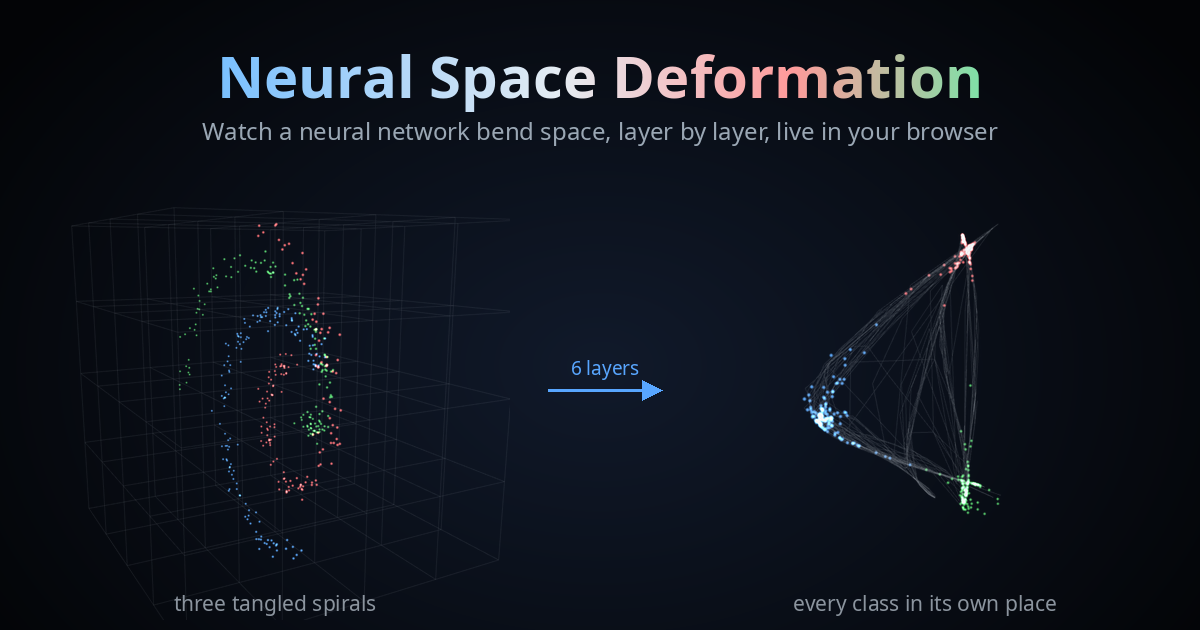
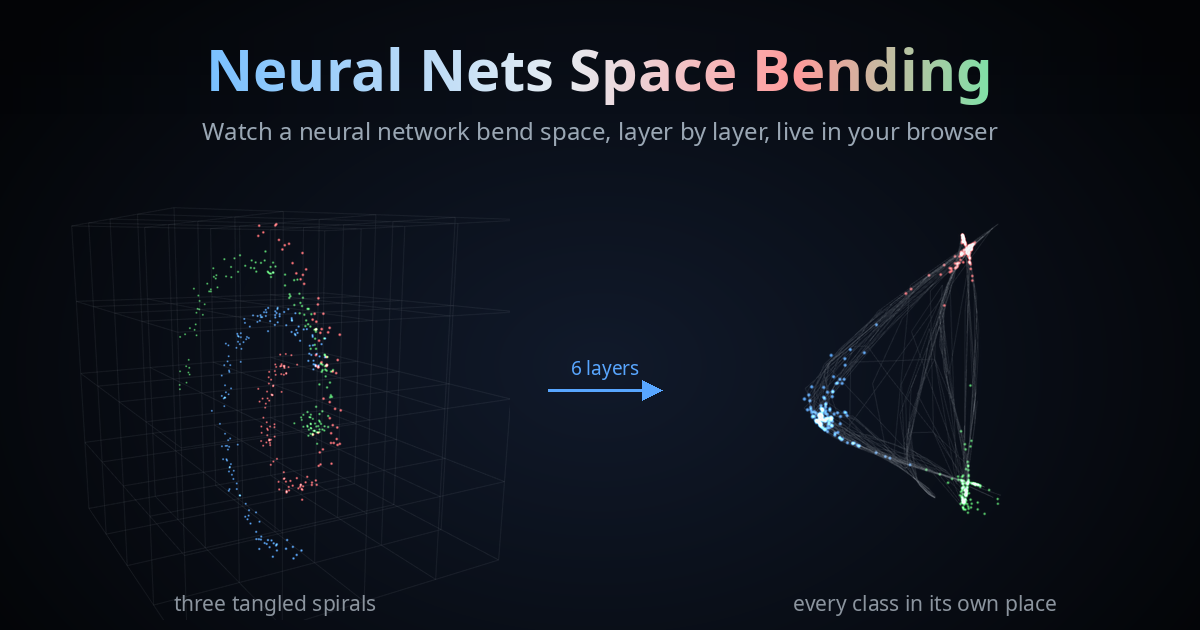
Neural Nets Space Bending: bigger strip and ▶, layer play after training, history bar next to Train

Changed region(s): [[0.1542, 0.0603, 0.8325, 0.181]]

diff --git a/index.html b/index.html
@@ -3,13 +3,13 @@
 <head>
 <meta charset="utf-8">
 <meta name="viewport" content="width=device-width, initial-scale=1">
-<title>Neural Space Deformation</title>
+<title>Neural Nets Space Bending</title>
 <meta name="author" content="Eren Can Almaz">
-<meta name="description" content="Interactive visualization of how a small MLP deforms space, layer by layer, and how backpropagation reshapes it. Plain JavaScript, no ML libraries.">
+<meta name="description" content="Interactive visualization of how a small MLP bends space, layer by layer, and how backpropagation reshapes it. Layers wider than the view are shown through PCA. Plain JavaScript, no ML libraries.">
 <!-- link previews (LinkedIn, Slack, X, …) -->
 <meta property="og:type" content="website">
 <meta property="og:url" content="https://writerforight.github.io/mlp-space-deformation/">
-<meta property="og:title" content="Neural Space Deformation">
+<meta property="og:title" content="Neural Nets Space Bending">
 <meta property="og:description" content="Watch a neural network bend space, layer by layer, live in your browser. Train it, drag its targets, look inside every layer. No install.">
 <meta property="og:image" content="https://writerforight.github.io/mlp-space-deformation/docs/og-cover.png">
 <meta property="og:image:width" content="1200">
@@ -182,24 +182,52 @@
   button.danger:disabled { color: var(--muted); border-color: var(--line); background: none; }
   #lossSpark { cursor: ew-resize; }
   #liveBtn { color: #ff6b6b; border-color: #ff6b6b; }
-  #timeline { position: absolute; left: 50%; bottom: 14px; transform: translateX(-50%); z-index: 5; width: min(640px, calc(100% - 280px));
-    display: flex; align-items: center; gap: 10px; padding: 6px 12px; border-radius: 12px;
-    background: rgba(22, 27, 34, 0.92); border: 1px solid var(--line); box-shadow: 0 8px 24px rgba(0, 0, 0, 0.35); }
+  /* training history: its own row under the network and Train; on wide screens right of Train */
+  #modelStrip { flex-wrap: wrap; row-gap: 4px; }
+  .ms-row { display: flex; align-items: center; gap: inherit; justify-content: inherit; flex: 1 1 auto; min-width: 0; }   /* network + Train never split */
+  #timeline { display: flex; align-items: center; justify-content: center; gap: 8px; flex: 1 0 100%; min-width: 0; }
+  #timeline #lossSpark { flex: 0 1 420px; }
+  @media (min-width: 1700px) {
+    #timeline { flex: 0 1 340px; padding-left: 18px; border-left: 1px solid var(--line); }
+    #timeline #lossSpark { flex: 1; }
+  }
+  /* the big ▶ on the view after training: plays the layers, not the training */
+  #bendBtn { position: absolute; left: 50%; bottom: 16px; transform: translateX(-50%); z-index: 5; padding: 10px 22px; border-radius: 24px;
+    font-size: 15px; font-weight: 650; white-space: nowrap; box-shadow: 0 0 0 3px rgba(31, 111, 235, 0.25), 0 8px 28px rgba(31, 111, 235, 0.45); }
   #timeline .tl-label { font-size: 11px; color: var(--muted); text-transform: uppercase; letter-spacing: 0.06em; }
   #timeline #replayBtn { border-radius: 50%; width: 30px; height: 30px; padding: 0; background: var(--accent2); border-color: var(--accent); }
-  #lossSpark { flex: 1; min-width: 80px; height: 30px; display: block; }
-  #lossVal { min-width: 92px; text-align: right; font-variant-numeric: tabular-nums; }
+  #lossSpark { flex: 1; min-width: 70px; height: 28px; display: block; }
+  #lossVal { min-width: 70px; text-align: right; font-variant-numeric: tabular-nums; }
   #lossVal { font-size: 10px; font-variant-numeric: tabular-nums; }
   .ms-train { display: flex; align-items: center; gap: 8px; padding-left: 14px; border-left: 1px solid var(--line); }
   #drawerBtn.on { background: var(--panel2); border-color: var(--accent); }
   @media (min-width: 821px) {   /* desktop: Train and Model sit in the centre, right after the network, and stand out */
-    #modelStrip { justify-content: center; gap: 22px; }
+    #modelStrip { justify-content: center; gap: 18px; }
     .ms-layers { flex: 0 1 auto; }
     .ms-train { gap: 10px; padding-left: 22px; }
     #trainPlay { min-width: 124px; padding: 8px 20px; font-size: 15px; font-weight: 650;
       box-shadow: 0 0 0 3px rgba(31, 111, 235, 0.22), 0 4px 16px rgba(31, 111, 235, 0.35); }
     #drawerBtn { padding: 8px 14px; font-size: 14px; font-weight: 600; border-color: var(--accent); }
+    /* the network you play through: bigger stages, a big round ▶ */
+    .pipe { gap: 4px; padding: 8px 2px 12px; }
+    .pipe .pn { padding: 7px 10px; font-size: 13.5px; }
+    .pipe .pb .pn { padding: 7px 6px; }
+    .pipe .pb { border-radius: 10px; padding: 3px; }
+    .pipe .pb .pn.s { font-size: 12px; }
+    .pipe .pi { font-size: 13px; padding: 4px 4px; }
+    .pipe .pa { font-size: 13px; }
+    .pipe .marker { width: 10px; height: 10px; left: -5px; }
+    .pipe .pm { margin-left: 4px; }
+    #modelStrip #play { width: 48px; height: 48px; font-size: 20px; }
+    #stepBack, #stepFwd, #netToggle { padding: 6px 9px; }
   }
+  /* ▶ (play the bending through the layers): round, glowing, softly pulsing until it is pressed */
+  #play { width: 40px; height: 40px; padding: 0 0 0 2px; flex: none; border-radius: 50%; font-size: 17px; line-height: 1;
+    box-shadow: 0 0 0 3px rgba(31, 111, 235, 0.25), 0 4px 16px rgba(31, 111, 235, 0.4); animation: playPulse 2.4s ease-in-out infinite; }
+  #play.on { padding-left: 0; animation: none; }
+  #play:hover { box-shadow: 0 0 0 4px rgba(31, 111, 235, 0.4), 0 4px 20px rgba(31, 111, 235, 0.55); }
+  @keyframes playPulse { 50% { box-shadow: 0 0 0 7px rgba(31, 111, 235, 0.08), 0 4px 22px rgba(31, 111, 235, 0.55); } }
+  @media (prefers-reduced-motion: reduce) { #play { animation: none; } }
   #drawer { display: grid; grid-template-columns: repeat(3, minmax(0, 1fr)); max-height: 46vh; border-top: 1px solid var(--line);
     background: var(--panel); animation: wzRise 0.3s var(--wz-ease, ease) backwards; }
   #drawer .col { overflow-y: auto; padding: 10px 14px 14px; border-left: 1px solid var(--line); scrollbar-color: #30363d transparent; scrollbar-width: thin; }
@@ -371,6 +399,7 @@
     .pipe .pa { display: none; }
     .ms-train { gap: 5px; padding-left: 6px; }
     #trainPlay { padding: 6px 9px; }
+    #play { width: 36px; height: 36px; font-size: 15px; }
     #drawerBtn { padding: 6px 10px; }
     .lbl-model { display: none; }
   }
@@ -382,8 +411,8 @@
     .wz-brand { display: none; }
     #modelStrip { gap: 8px; padding: 6px 8px; }
     .ms-train { padding-left: 8px; }
-    #timeline { width: calc(100% - 24px); bottom: 70px; }
-    #gizmo { bottom: 124px; }
+    #bendBtn { font-size: 14px; padding: 9px 16px; bottom: 12px; }
+    #gizmo { bottom: 64px; }
     #tlStack { max-width: calc(100% - 110px); }      /* leaves room for View ▾ */
     #infoBox { font-size: 11px; padding: 4px 8px; }
     #infoBox .fold-body { max-height: 42vh; }
@@ -572,7 +601,7 @@
 </head>
 <body>
 <header>
-  <h1><span class="lbl-long">Neural </span>Space Deformation</h1>
+  <h1><span class="lbl-long">Neural Nets </span>Space Bending</h1>
   <a class="byline hdr-wide" href="https://github.com/writerforight" target="_blank" rel="noopener">by Eren Can Almaz</a>
   <span class="seg" data-tip="Dimension of the input and output space. 3D uses Three.js; objects are cleared when switching.">
     <button id="dim2" class="on">2D</button><button id="dim3">3D</button>
@@ -641,14 +670,8 @@
       <svg id="gizmo" class="hidden" width="84" height="84" viewBox="0 0 84 84" aria-label="Axes of the tilted view"></svg>
       <button id="toolChip" class="hidden" data-tip="Back to the normal mode (pan the view)."></button>
 
-      <!-- training timeline, like a video player's bar: the loss of the whole run; drag to go back in time -->
-      <div id="timeline" class="hidden">
-        <button id="replayBtn" data-tip="Replay the training from the start, like a video.">⏵</button>
-        <span class="tl-label">Training</span>
-        <canvas id="lossSpark" data-tip="The loss of every training step (log scale). Drag to see the network at an earlier step."></canvas>
-        <span id="lossVal" class="tag"></span>
-        <button id="liveBtn" class="hidden" data-tip="Back to the current weights.">● live</button>
-      </div>
+      <!-- after training: one big, plain button that sends the space through the trained network, layer by layer -->
+      <button id="bendBtn" class="primary hidden" data-tip="Send the space through the trained network, layer by layer (Space).">▶ Watch the trained network bend space</button>
 
       <!-- top right: how to look -->
       <div class="anchor tr">
@@ -941,6 +964,7 @@
       <canvas id="netCanvas"></canvas>
     </div>
     <div id="modelStrip">
+      <div class="ms-row">
       <div class="ms-layers">
         <button id="play" class="primary" data-tip="Animate through the layers (Space).">▶</button>
         <div id="pipe" class="pipe" data-tip="The network as the path a point travels. Click a step to go there, drag to scrub, ⓘ inspects a layer."></div>
@@ -953,6 +977,16 @@
       <div class="ms-train">
         <button id="trainPlay" class="primary" data-tip="Start / pause training (key T).">▶ Train</button>
         <button id="drawerBtn" data-tip="Network, goal and training settings."><span class="lbl-model">Model </span>▲</button>
+      </div>
+      </div>
+      <!-- training history, like a video player's bar: the loss of the whole run; drag to go back in time.
+           The view keeps showing the layer you are on, so ⏵ shows how training changed that layer. -->
+      <div id="timeline" class="hidden">
+        <button id="replayBtn" data-tip="Replay the training: how the layer you are viewing changed, step by step.">⏵</button>
+        <span class="tl-label">History</span>
+        <canvas id="lossSpark" data-tip="The loss of every training step (log scale). Drag to see the network at an earlier step."></canvas>
+        <span id="lossVal" class="tag"></span>
+        <button id="liveBtn" class="hidden" data-tip="Back to the current weights.">● live</button>
       </div>
     </div>
   </main>
@@ -968,7 +1002,7 @@
     <div><p data-l="4">…until every class has its own place.</p></div>
   </div>
   <div class="intro-end">
-    <h2>Neural Space Deformation</h2>
+    <h2>Neural Nets Space Bending</h2>
     <p>Watch a neural network bend space — live, in your browser.</p>
     <p class="intro-by">by Eren Can Almaz</p>
     <div class="intro-btns"><button id="introTry" class="primary">Try it yourself</button><button id="introGuide">Guided tour</button></div>
@@ -980,7 +1014,7 @@
 <!-- ======================= guided start (src/wizard.js) ======================= -->
 <div id="wizard" class="hidden">
   <div class="wz-top">
-    <span class="wz-brand">Neural Space Deformation</span>
+    <span class="wz-brand">Neural Nets Space Bending</span>
     <button id="wzBack" class="wz-link hidden">← Back</button>
     <nav id="wzSteps">
       <button data-goto="dimension"><span class="n">1</span>Dimension</button><span class="sep">›</span>
@@ -993,8 +1027,8 @@
   </div>
   <div class="wz-stage">
     <section class="wz-screen wz-intro" data-step="intro">
-      <h2>Neural Space Deformation</h2>
-      <p class="lead">Watch a small neural network bend space, layer by layer, and see how training reshapes it.</p>
+      <h2>Neural Nets Space Bending</h2>
+      <p class="lead">Watch a small neural network bend space, layer by layer, and see how training reshapes it. Layers wider than 2D or 3D are shown through PCA, their most important directions.</p>
       <div class="wz-actions">
         <button id="wzStart" class="primary">Start the guided demo</button>
         <button id="wzSkip">I know how to use it</button>

diff --git a/src/tour.js b/src/tour.js
@@ -30,9 +30,9 @@
     { sel: '#drawerBtn', side: 'top', title: 'Network, goal, training',
       text: 'Model ▲ opens three columns: the network (layers, width, activation, the weight matrices as numbers), the goal (a task, or your own mix of goals) and the training settings.' },
     { sel: '#trainPlay', side: 'top', title: 'Train',
-      text: 'Backpropagation reshapes the whole deformation step by step (key: T). After training, a timeline appears on the view: drag it like a video to see any earlier step.' },
+      text: 'Backpropagation reshapes the whole deformation step by step (key: T). After training, ▶ on the view plays the trained network layer by layer, and a history bar appears right of Train.' },
     { sel: '#timeline', side: 'top', title: 'The training timeline',
-      text: 'The loss of the whole run. Drag to see the network at an earlier step, ⏵ replays the training, ● live returns. Training from an old step continues from there.' },
+      text: 'The loss of the whole run. Drag to see the network at an earlier step, ⏵ replays how training changed the layer in view, ● live returns. Training from an old step continues from there.' },
     { sel: '#analysisBtn', side: 'bottom', title: 'Analysis and experiments',
       text: 'Analysis: loss, forgetting, gradient interference, sensitivity, invertibility. Experiments: ready-made topology tests of what a network can and cannot do.' },
     { sel: '#helpBtn', side: 'bottom', title: 'That’s it',

diff --git a/src/strip.js b/src/strip.js
@@ -7,8 +7,8 @@
    A marker shows where the view is right now, also between stages.  On a phone-wide screen the strip is
    compact — In · 1 · 2 · … · Out, one button per layer (its output); tapping the current layer again opens
    its inspector, and dragging along the strip still passes through every stage.  Once there is training, a video-style
-   bar on the view shows the loss of the whole run: drag on it to see the network at an earlier step,
-   ⏵ replays it, ● live returns.
+   bar right of Train shows the loss of the whole run: drag on it to see the network at an earlier step,
+   ⏵ replays it (at the layer in view), ● live returns.  The big ▶ on the view plays the trained network's layers.
 */
 (function () {
   'use strict';
@@ -191,6 +191,7 @@
     })(t0);
   };
   $('trainPlay').addEventListener('click', stopReplay, true);
+  $('bendBtn').onclick = () => { stopReplay(); if (!App.playing) $('play').click(); };
 
   // ---- every frame: rebuild if the network changed, move the marker, light up the current slot ----------
   function frame() {
@@ -210,6 +211,8 @@
       });
     }
     drawSpark();
+    // after training, the big ▶ on the view: hidden while the layers play or training runs
+    $('bendBtn').classList.toggle('hidden', $('timeline').classList.contains('hidden') || App.playing || App.training || !!replay);
     requestAnimationFrame(frame);
   }
   build();

diff --git a/src/ui.js b/src/ui.js
@@ -1079,7 +1079,7 @@
       title = `${a.title} → ${b.title}`; lines = [`morphing ${(100 * (t - Math.floor(t))).toFixed(0)}%`];
     }
     $('ticks').textContent = `stage ${t.toFixed(2)} / ${n - 1}`;
-    $('play').textContent = playing ? '⏸' : '▶';
+    $('play').textContent = playing ? '⏸' : '▶'; $('play').classList.toggle('on', playing);
     const P = traces.bases[Math.min(n - 1, Math.max(0, s))];
     if (P && !P.exact) {
       const D3 = depthInfo[Math.min(n - 1, Math.max(0, s))];

diff --git a/test/browser_test.py b/test/browser_test.py
@@ -350,6 +350,11 @@ def check_timeline(b):
     assert i is not None and b.js(f'return __app.net.theta[0] === __app.history[{i}].theta[0]')
     b.click('#liveBtn'); time.sleep(0.2)
     assert b.js('return __app.viewIdx') is None
+    # the history bar sits in the strip; the big ▶ on the view plays the trained network's layers
+    assert b.js("return !!document.querySelector('#modelStrip #timeline')")
+    assert b.js("return !document.getElementById('bendBtn').classList.contains('hidden')")
+    b.click('#bendBtn'); time.sleep(0.2)
+    assert b.js('return __app.playing')
 
 
 def check_view_background_and_tilt(b):

diff --git a/README.md b/README.md
@@ -1,6 +1,6 @@
-# Neural Space Deformation
+# Neural Nets Space Bending
 
-**Neural Space Deformation is an interactive, browser-only visualization of what a small neural network
+**Neural Nets Space Bending is an interactive, browser-only visualization of what a small neural network
 (MLP) does geometrically:** every layer bends, stretches, folds and squashes space, and backpropagation
 reshapes those deformations while it trains. It was built by
 [Eren Can Almaz](https://writerforight.github.io), an Electrical Engineering student at RWTH Aachen
@@ -42,8 +42,9 @@ One big view; everything else opens on demand, and one panel at a time (✕, Esc
 - **The strip at the bottom is the network**: `Input ▸ [W₁ | tanh] ▸ … ▸ Output`. Click a step to go there,
   drag along the strip to scrub, ⓘ inspects a layer, − / ＋ change the depth. ▶ Train sits on the right;
   **Model ▲** opens network | goal | training settings.
-- **Training timeline**: once a network has trained, a video-style bar on the view shows the loss of the
-  whole run. Drag on it to see the network at any earlier step, ⏵ replays the training, ● live returns;
+- **After training**: a big ▶ on the view plays the trained network, layer by layer. The **history** bar
+  in the strip (under the network, right of Train on wide screens) shows the loss of the whole run. Drag on it
+  to see the network at any earlier step, ⏵ replays how training changed the layer in view, ● live returns;
   training from an old step continues from there.
 - **Tools**: click the active tool again, the tool badge on the view, or Esc to go back to panning; the
   Objects panel stays open while you draw.
